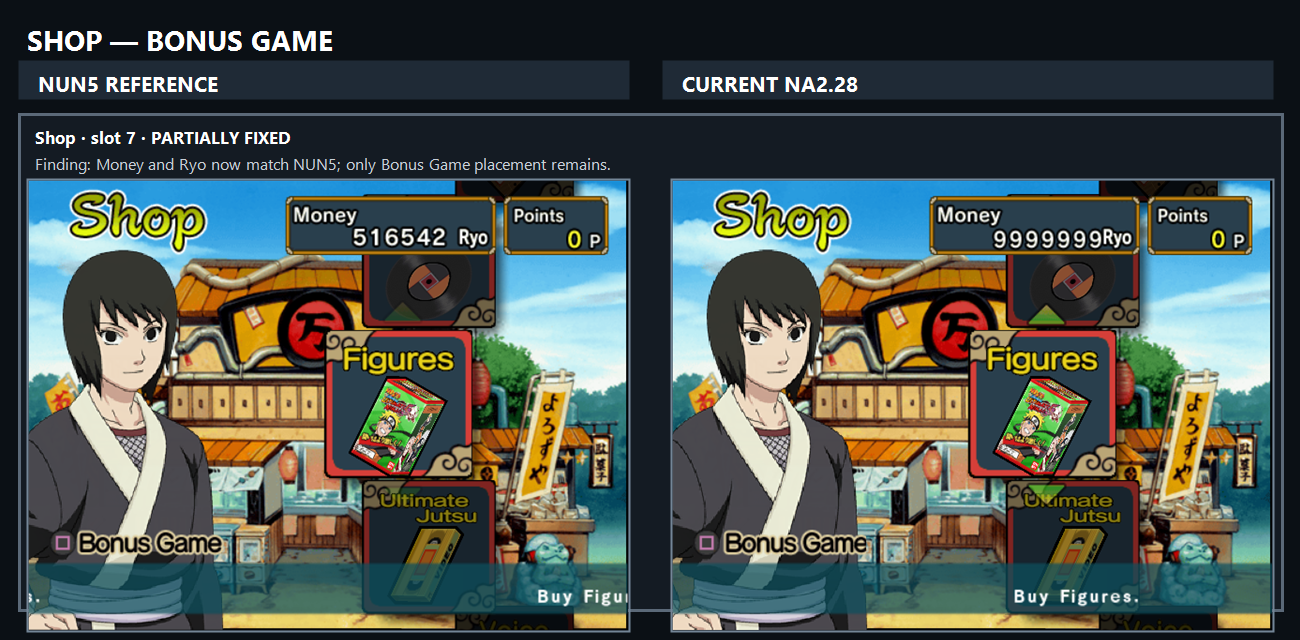
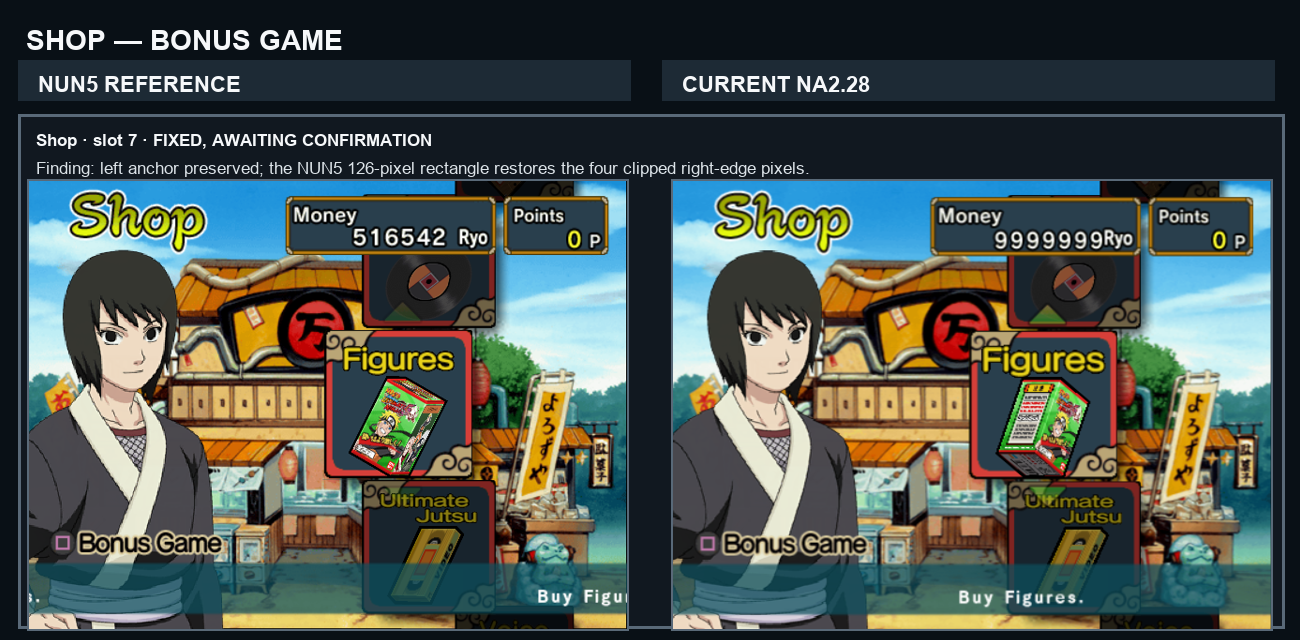
[UI Translation] Widen Shop Bonus Game label

Changed region(s): [[0.0, 0.0312, 1.0, 1.0]]

diff --git a/na2_patcher/tests/test_texture_patcher.py b/na2_patcher/tests/test_texture_patcher.py
@@ -641,9 +641,9 @@ class UiTextureTests(unittest.TestCase):
         edits = [item for item in package.edits if item.patch_id == "UI-ETC-001"]
         patch = package.patches["UI-ETC-001"]
 
-        self.assertEqual(len(edits), 4)
-        self.assertEqual(patch.status, "runtime_proven")
-        self.assertEqual(patch.confidence, "verified")
+        self.assertEqual(len(edits), 5)
+        self.assertEqual(patch.status, "approved_for_test")
+        self.assertEqual(patch.confidence, "high")
         rectangle = edits[0]
         self.assertEqual(rectangle.edit_id, "UI-ETC-001-01")
         self.assertEqual(rectangle.destination_offset, 0x30308)
@@ -685,6 +685,14 @@ class UiTextureTests(unittest.TestCase):
                     "nun5_etc",
                     0x26094,
                     "D242023C",
+                ),
+                (
+                    "UI-ETC-001-05",
+                    0x30340,
+                    "81008900160016008100A1007A001600",
+                    "nun5_etc",
+                    0x29330,
+                    "81008900160016008100A1007E001600",
                 ),
             ],
         )
@@ -1413,11 +1421,11 @@ class UiTextureTests(unittest.TestCase):
             if edit.operation == "replace" and edit not in stage_scales
         ]
 
-        self.assertEqual(len(ui_edits), 254)
-        self.assertEqual(operations, {"copy": 85, "replace": 169})
+        self.assertEqual(len(ui_edits), 255)
+        self.assertEqual(operations, {"copy": 86, "replace": 169})
         self.assertEqual(
             copy_sources,
-            {"nun5_elf": 61, "nun5_btl": 16, "nun5_etc": 8},
+            {"nun5_elf": 61, "nun5_btl": 16, "nun5_etc": 9},
         )
         self.assertEqual(len(stage_scales), 24)
         self.assertEqual(len(adaptations), 145)

diff --git a/docs/knowledge/localization/ui/shop.md b/docs/knowledge/localization/ui/shop.md
@@ -33,7 +33,7 @@ tables, and paired runtime captures.
 ## Localized label path
 
 The complete NUN5 `SHOP.CCS` donor already supplies the English artwork. NA2
-still selects two Japanese-size atlas rectangles and three regional placement
+still selects Japanese-size atlas rectangles and three regional placement
 constants from `ETC.BIN`.
 
 The draw path can be reconstructed as:
@@ -50,8 +50,8 @@ void draw_shop_labels(ShopScreen *screen) {
     // Keep NA2's seven-digit money-value formatting and placement.
     draw_money_value(screen->currency_sprite, screen->money);
 
-    Rect bonus_target = screen->bonus_target_rect;
-    Rect bonus_shot = screen->bonus_shot_rect;
+    Rect bonus_target = shop_bonus_rects.label;
+    Rect bonus_shot = shop_bonus_rects.icon;
     set_sprite_position(screen->bonus_sprite, 105.0f, 310.0f, bonus_target);
     set_sprite_position(screen->bonus_sprite, 30.0f, 310.0f, bonus_shot);
 }
@@ -63,7 +63,7 @@ and `105.0f`.
 
 ## Canonical donor imports
 
-`UI-ETC-001` uses four guarded NUN5 imports:
+`UI-ETC-001` uses five guarded NUN5 imports:
 
 | Semantic data | NA2 file / Ghidra / live EE | NUN5 file / Ghidra / live EE | Change |
 | --- | --- | --- | --- |
@@ -71,6 +71,7 @@ and `105.0f`.
 | Money X instruction | `0x249A4` / `0x006D8864` / `0x006D88A4` | `0x25E88` / `0x006ECB48` / `0x006ECB88` | `250.0f` to `254.0f` |
 | Ryo Y instruction | `0x249CC` / `0x006D888C` / `0x006D88CC` | `0x25EB0` / `0x006ECB70` / `0x006ECBB0` | `48.0f` to `50.0f` |
 | Bonus Game X instruction | `0x24BB0` / `0x006D8A70` / `0x006D8AB0` | `0x26094` / `0x006ECD54` / `0x006ECD94` | `100.0f` to `105.0f` |
+| Bonus Game rectangles | `0x30340` / `0x006E4200` / `0x006E4240` | `0x29330` / `0x006EFFF0` / `0x006F0030` | Copy 16 bytes; label width `122` to `126` |
 
 The label-position callee is `func_0x0037BC40` in NA2 and
 `func_0x0038AD00` in NUN5. The money-value callees are `FUN_006CB360` and
@@ -88,15 +89,21 @@ state.
   phases. Treating the difference as pulse-only was not sufficient evidence:
   complete-function comparison proves a separate five-pixel X-anchor
   difference at the exact homologous instruction.
+- The newer slot-7 review confirms that anchor but shows the rightmost four
+  label pixels clipped. The two functions copy homologous 16-byte rectangle
+  tables immediately before the Bonus Game draws. Their icon records are
+  identical; the only difference is NA2 width `122` versus NUN5 width `126`.
 - Copying `SHOP.CCS` alone cannot fix any of these constants because they are
   loaded by `ETC.BIN`.
 - The money-value origin differs regionally because NUN5 formats fewer digits.
   Copying that origin would conflict with NA2's intended seven-digit layout, so
   it remains intentionally NA2-specific.
-- The worker ISO and a guarded copy of the preserved Shop savestate applied all
-  three live instructions together. Enlarged final crops place Money, Ryo, and
-  Bonus Game at the NUN5 anchors; the seven-digit value remains complete.
+- The earlier worker ISO and guarded Shop state prove the three anchor imports
+  and seven-digit value behavior. A fresh hidden task-clone render used a
+  guarded task-owned state with the exact `0x006E4240` table replacement and
+  reproduced NUN5's complete Bonus Game right edge without moving its left
+  anchor. User acceptance remains pending.
 
-Confidence is **verified**: complete homologous-function comparison,
-clean-binary guards, exact live-state readback, the worker ISO, and the paired
-enlarged visual comparison all agree.
+Confidence is **high** pending user acceptance. The address mapping,
+clean-binary guards, homologous copy loops, exact donor-table difference, and
+task-owned runtime render are verified.

diff --git a/docs/workstreams/ui_translation/plan.md b/docs/workstreams/ui_translation/plan.md
@@ -125,6 +125,12 @@ Import appropriate official NUN5 English UI textures into NA2, correct the offse
   `48->50`, and Bonus Game X `100->105`. `UI-ETC-001` now imports all three
   instructions while keeping NA2's seven-digit value origin. A guarded
   task-owned Shop state and worker ISO then reproduced all three NUN5 anchors.
+  The newer slot-7 review found a separate four-pixel right-edge crop:
+  NA2's Bonus Game rectangle is 122 pixels wide while the homologous NUN5
+  record is 126. The fifth donor import copies that complete 16-byte rectangle
+  table without moving the established left anchor. A guarded task-owned
+  savestate render of that exact table now reproduces the complete NUN5 label
+  extent; user acceptance remains pending.
 - Preserved slot 1 showed that the imported Mode Select START art was clipped by
   NA2's static `(1,397,206,22)` rectangle and X=`130` anchor. NUN5 localized
   accessor `FUN_003d4bc0` supplies `(1,393,254,26)` and renderer

diff --git a/na2_patcher/features/localization/README.md b/na2_patcher/features/localization/README.md
@@ -1368,6 +1368,14 @@ Y=`50`, and Bonus Game X=`105` instructions over NA2's X=`250`, Y=`48`, and
 X=`100` constants. The money-value origin remains NA2-specific so its
 seven-digit layout is not clipped.
 
+The newer slot-7 comparison confirms the Bonus Game left anchor but exposes a
+four-pixel right-edge crop. Both homologous renderers copy a second 16-byte
+rectangle table: NA2 ETC `0x30340` contains icon `(129,137,22,22)` and label
+`(129,161,122,22)`, while NUN5 ETC `0x29330` retains the identical icon and
+widens the label to `(129,161,126,22)`. A fifth guarded NUN5 import copies that
+complete table, preserving the anchor and extending only the missing right
+edge.
+
 The full file/runtime mapping, practical reconstruction, call relationships,
 side effects, evidence, and rejected pulse-only interpretation are recorded in
 `docs/knowledge/localization/ui/shop.md`.

diff --git a/docs/workstreams/ui_translation/epics/remaining_ui/README.md b/docs/workstreams/ui_translation/epics/remaining_ui/README.md
@@ -7,8 +7,8 @@ the right.
 
 ## Remaining subtasks
 
-1. Shop, slot 7: match the remaining Bonus Game placement. Money and Ryo are
-   fixed.
+1. Shop, slot 7: the Bonus Game right-edge correction is implemented and
+   rendered from the task-owned NA2.28 clone; user confirmation is pending.
 2. Battle Results screen 2: repair the garbled and mislaid result UI.
 3. Character Items transition: replace the NA2.28 slide with the NUN5/base-NA2
    fade behavior.
